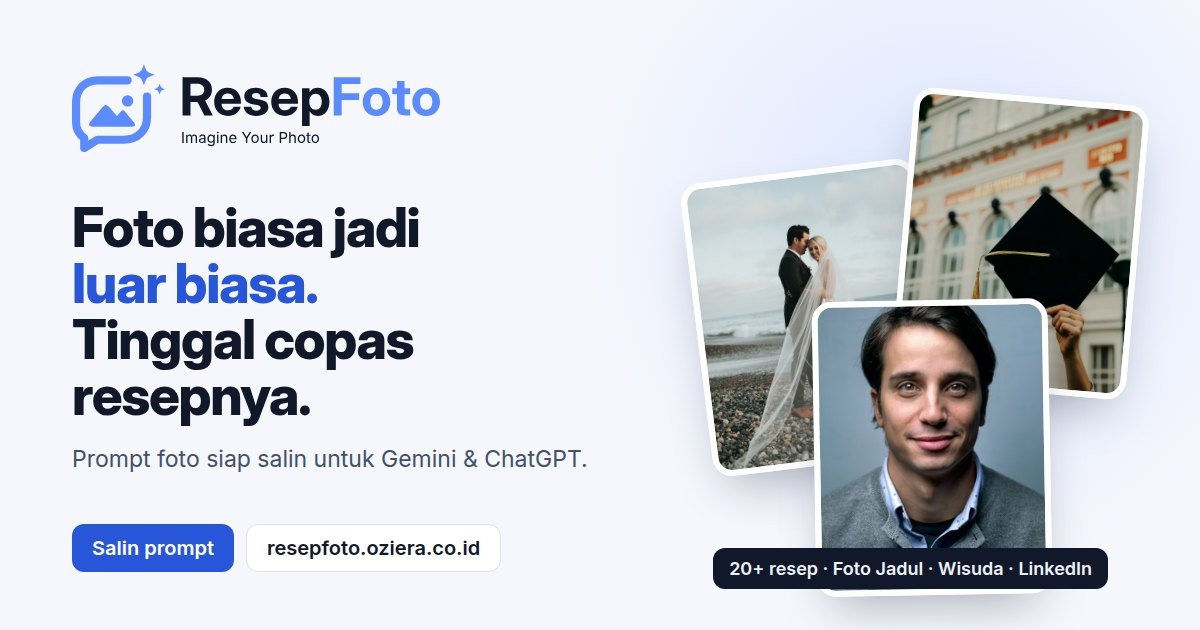
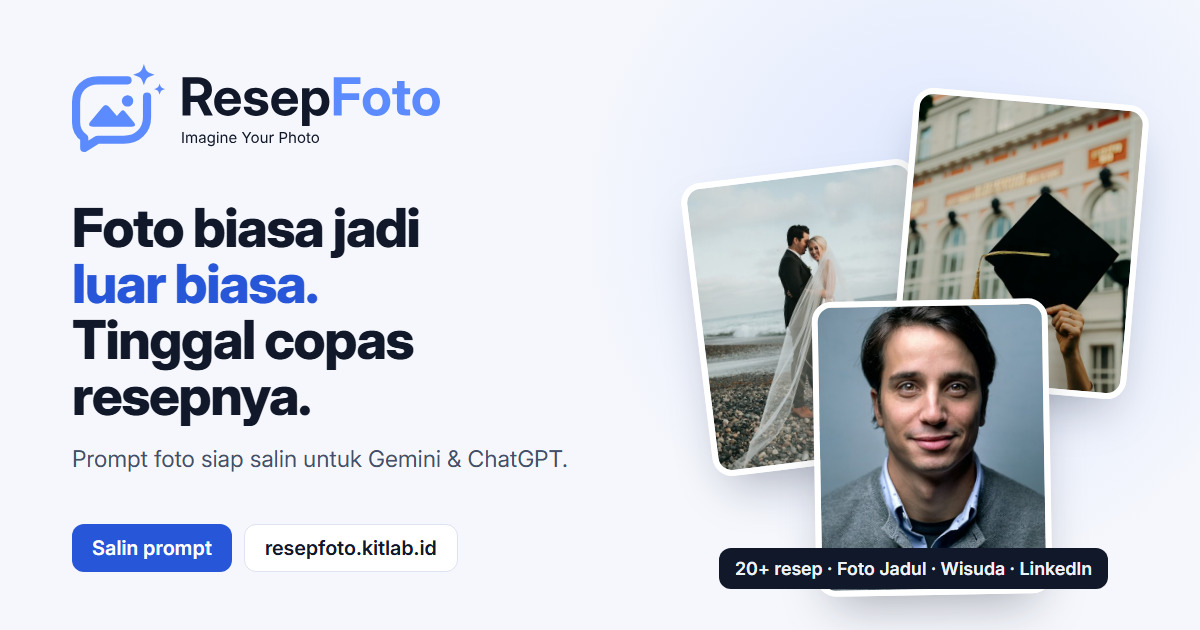
Perbarui gambar OG ke domain baru supaya pratinjau share benar
Gambar og-image.jpg adalah JPG hasil render, jadi teks domainnya tidak
ikut terganti saat migrasi — masih menampilkan resepfoto.oziera.co.id.
Dirender ulang dari brand/source/og.html memakai Chrome headless.

- brand/source/og.html: path foto ../web/img/ (folder yang sudah tidak
  ada) diperbaiki ke ../../app/img/, dan font Inter dimuat dari Google
  Fonts supaya render tidak bergantung font yang terpasang di PC
- brand/og-image.jpg + app/brand/og-image.jpg: 1200x630, 144 KB
- penanda versi admin-14 -> admin-15

diff --git a/brand/source/og.html b/brand/source/og.html
@@ -1,10 +1,10 @@
-<!doctype html><html><head><meta charset="utf-8"><style>
+<!doctype html><html><head><meta charset="utf-8"><link rel="preconnect" href="https://fonts.googleapis.com"><link rel="preconnect" href="https://fonts.gstatic.com" crossorigin><link href="https://fonts.googleapis.com/css2?family=Inter:opsz,wght@14..32,400;14..32,600;14..32,700;14..32,800&display=swap" rel="stylesheet"><style>
 *{box-sizing:border-box;margin:0}
 body{width:1200px;height:630px;overflow:hidden;background:#F5F7FC;font-family:Inter;color:#111829;position:relative}
 .glow{position:absolute;right:-120px;top:-160px;width:760px;height:760px;border-radius:50%;background:radial-gradient(circle,#DCE6FF 0,#F5F7FC 68%)}
 .l{position:absolute;left:72px;top:60px;width:580px}
 .logo{height:92px;display:block}
-h1{font-family:"Inter Display";font-weight:800;font-size:54px;line-height:1.04;letter-spacing:-.025em;margin-top:48px}
+h1{font-family:"Inter";font-weight:800;font-size:54px;line-height:1.04;letter-spacing:-.025em;margin-top:48px}
 h1 b{color:#2856D8}
 p{font-size:23px;line-height:1.4;color:#44506A;margin-top:18px;max-width:560px}
 .chip{position:absolute;left:72px;bottom:58px;display:flex;gap:12px;align-items:center}
@@ -21,8 +21,8 @@ p{font-size:23px;line-height:1.4;color:#44506A;margin-top:18px;max-width:560px}
 <h1>Foto biasa jadi<br><b>luar biasa.</b><br>Tinggal copas resepnya.</h1>
 <p>Prompt foto siap salin untuk Gemini &amp; ChatGPT.</p></div>
 <div class="chip"><span class="c c1">Salin prompt</span><span class="c c2">resepfoto.kitlab.id</span></div>
-<div class="ph a" style="background-image:url(../web/img/p13.jpg)"></div>
-<div class="ph b" style="background-image:url(../web/img/p12.jpg)"></div>
-<div class="ph d" style="background-image:url(../web/img/p15.jpg)"></div>
+<div class="ph a" style="background-image:url(../../app/img/p13.jpg)"></div>
+<div class="ph b" style="background-image:url(../../app/img/p12.jpg)"></div>
+<div class="ph d" style="background-image:url(../../app/img/p15.jpg)"></div>
 <div class="tag">20+ resep · Foto Jadul · Wisuda · LinkedIn</div>
 </body></html>

diff --git a/app/api.php b/app/api.php
@@ -255,7 +255,7 @@ if ($method === 'POST' && !in_array($a, ['lt'], true) && !hash_equals($_SESSION[
 try {
   switch ($a) {
     case 'me':
-      out(['ok' => true, 'csrf' => $_SESSION['csrf'], 'user' => currentUser(), 'cover' => coverConfig(), 'v' => 'admin-14']);
+      out(['ok' => true, 'csrf' => $_SESSION['csrf'], 'user' => currentUser(), 'cover' => coverConfig(), 'v' => 'admin-15']);
 
     case 'cover_save': {
       requireAdmin();
